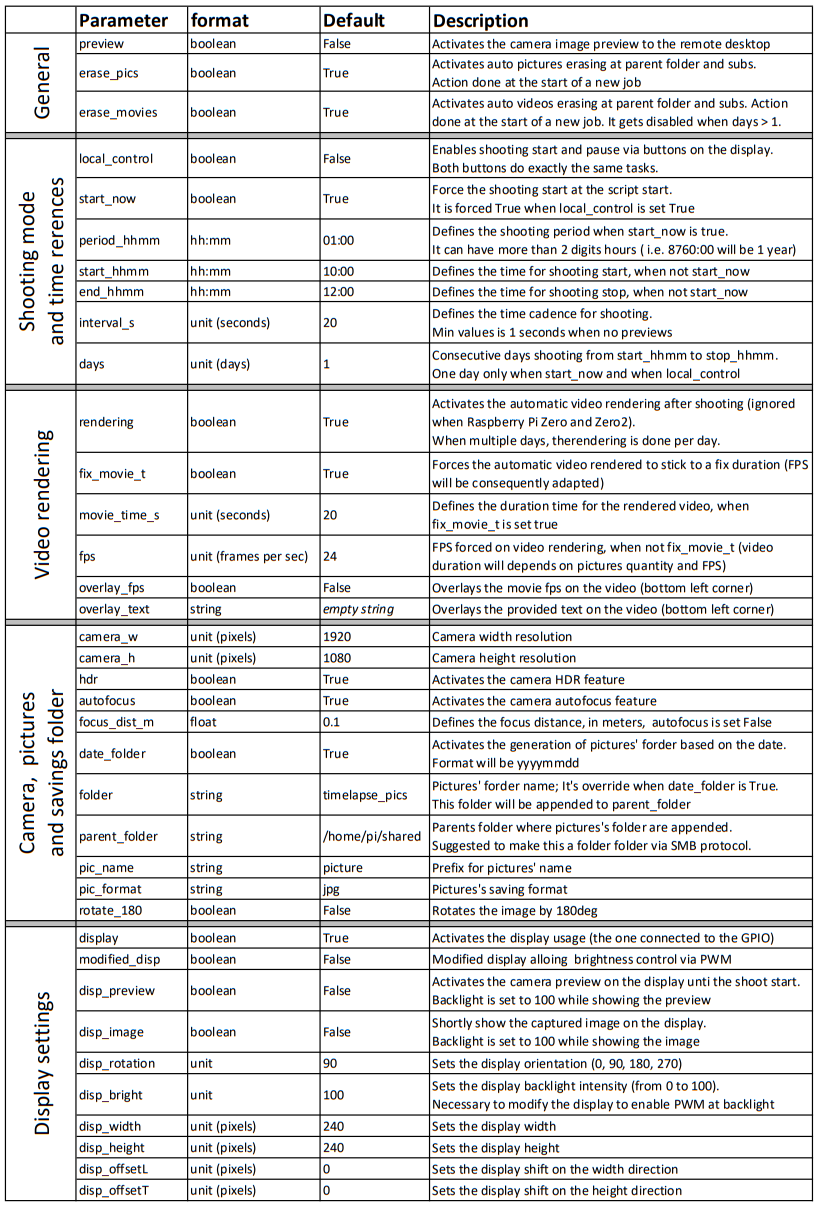
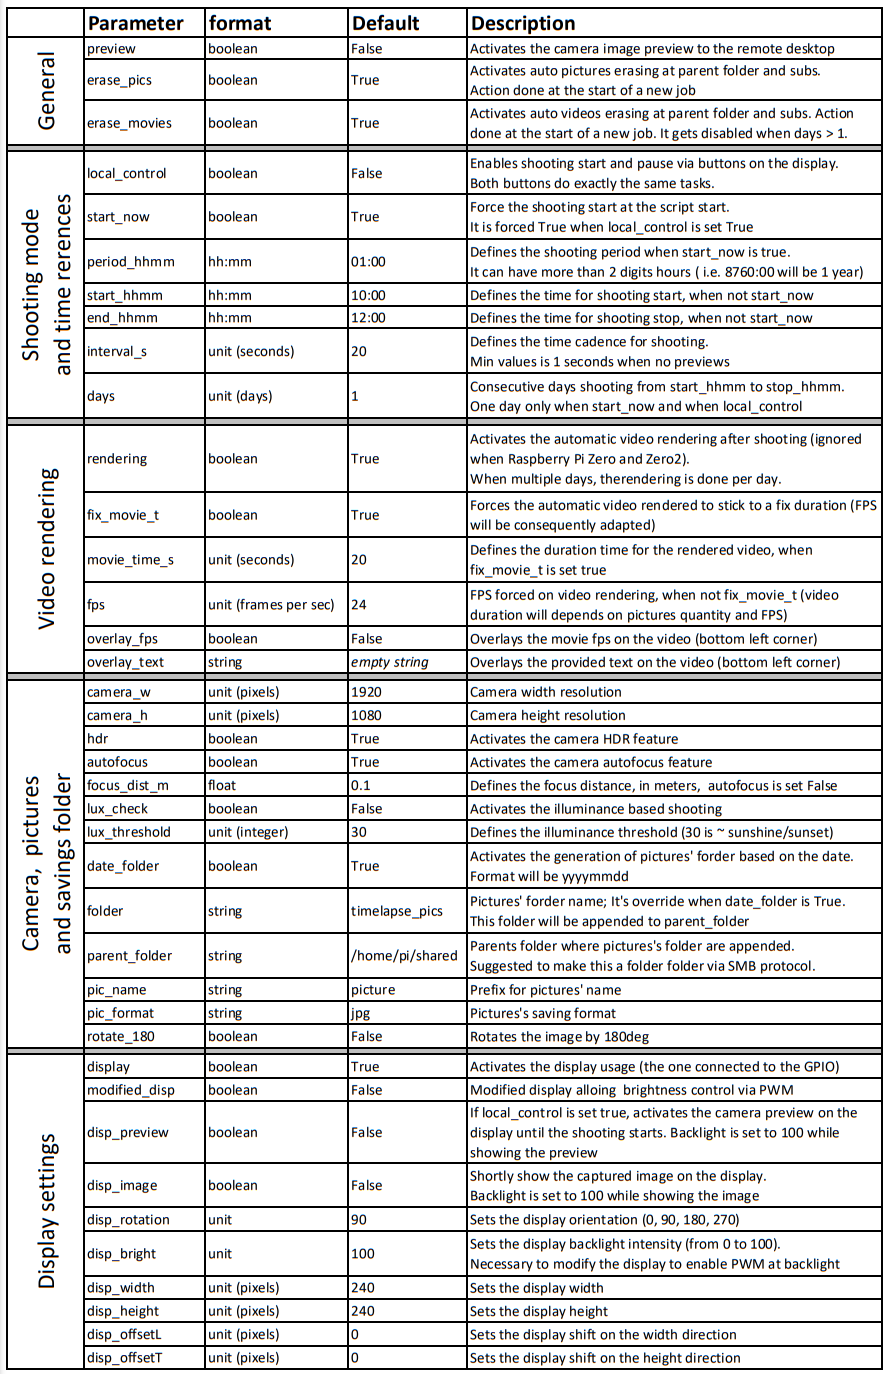
Rev 0.5 (recovery rom outage when start_now)
Extended the recovery from power outage function to when the start_now is set True.
The variables to condition the shooting to illuminance have been added to the settings.txt file.
Some minor inprovements

diff --git a/timelapse.py b/timelapse.py
@@ -3,19 +3,22 @@
 
 """
 #############################################################################################################
-#  Andrea Favero 11 August 2024,
+#  Andrea Favero 25 August 2024,
 #  Timelapse module, based on Raspberry Pi 4b and PiCamera V3 (wide)
 #
-#  Last version (addition): Recovery from power outage
+#  Last version (addition): Recovery from power outage and shooting when illuminance above threshold
 #  Recovery from power outage works when below parameters are set like:
 #        "date_folder" : "False" (it points to "folder")
 #        "erase_pics" : "False"  (latest picture suffix retrieved to prevent pictures being overwritten)
+#  Shooting when illuminance above threshold works when below parameters are set like:
+#        "lux_check" : "True"    (it enables lux estimation by the camera)
+#        "lux_threshold" : "30"  (sets the lux threshold, 30 is about the illuminance at sanset/sunshine)
 #############################################################################################################
 """
 
 
 # __version__ variable
-version = '0.4 (11 Aug 2024)'
+version = '0.5 (25 Aug 2024)'
 
 
 ################  setting argparser for parameter parsing  ######################################
@@ -83,6 +86,7 @@ import RPi.GPIO as GPIO
 
 
 
+
 def to_bool(value):
     """ Converts argument to boolean. Raises exception for invalid formats
         Possible True  values: 1, True, true, "1", "True", "yes", "y", "t"
@@ -134,7 +138,13 @@ def check_screen_presence():
             print('Display function is availbale')  # feedback is printed to the terminal
         return True                                   # function returns True, meaning there is a screen connected
     else:                                             # case the environment variable DISPLAY is set to 0 (there is NOT a display)
-        if debug:                                     # case debug variable is set True (on __main__ or via argument)
+#         try:
+#             os.environ['DISPLAY'] = ':0'
+#             print("Successfully set os.environ['DISPLAY'] = ':0'")
+#         except:
+#             print("Failed to set os.environ['DISPLAY'] = ':0'")
+            
+        if debug:                                 # case debug variable is set True (on __main__ or via argument)
             print('Display function is not availbale') # feedback is printed to the terminal
         return False                                  # function returns False, meaning there is NOT a screen connected
 
@@ -231,6 +241,17 @@ def setup():
                 instructions_info('parent_folder')    # instructions_info function is called
             else:                                     # case parent_folder is a key in settings.txt
                 parent_folder = str(settings['parent_folder'])  # parent_folder name to append folders
+            
+            if settings.get('lux_check') == None:     # case lux_check is not a key in settings.txt 
+                instructions_info('lux_check')        # instructions_info function is called
+            else:                                     # case parent_folder is a key in settings.txt
+                lux_check = to_bool(settings['lux_check'])  # flag to enable lux_check
+            
+            if settings.get('lux_threshold') == None: # case lux_threshold is not a key in settings.txt 
+                instructions_info('lux_threshold')    # instructions_info function is called
+            else:                                     # case parent_folder is a key in settings.txt
+                lux_threshold = int(settings['lux_threshold'])  # lux threshold to take or not a picture
+                
             # ############################################################################
 
             
@@ -307,6 +328,8 @@ def setup():
     variables['hdr'] = hdr
     variables['autofocus'] = autofocus
     variables['focus_dist_m'] = focus_dist_m
+    variables['lux_check'] = lux_check
+    variables['lux_threshold'] = lux_threshold
     variables['date_folder'] = date_folder
     variables['folder'] = folder
     variables['parent_folder'] = parent_folder
@@ -367,7 +390,7 @@ def set_camera(camera_w, camera_h, rotate_180, hdr, autofocus, focus_dist_m, pre
                                                           lores={"size": (640, 360)}) # camera settings
     
     picam2.configure(camera_conf)                     # applying settings to the camera
-
+    
     if v3_camera:                                     # case v3_camera is set True
         if hdr:                                       # case hdr is set True
             ret = os.system(f"v4l2-ctl --set-ctrl wide_dynamic_range=1 -d /dev/v4l-subdev0") # hdr on
@@ -379,13 +402,13 @@ def set_camera(camera_w, camera_h, rotate_180, hdr, autofocus, focus_dist_m, pre
             return error                              # error code is returned
         else:                                         # case setting the hdr returns zero
             sleep(0.5)                                # little sleep time    
-        
+
         if autofocus:                                 # case autofocus is set True
             picam2.set_controls({"AfMode": controls.AfModeEnum.Auto})  # Autofocus Auto requires a trigger to execute the focus
         else:                                         # case autofocus is set False
             focus_dist = 1/focus_dist_m if focus_dist_m > 0 else 10    #preventing zero division; 0.1 meter is the min focus dist (1/0.1=10)
             picam2.set_controls({"AfMode": controls.AfModeEnum.Manual, "LensPosition": focus_dist}) # manual focus; 0.0 is infinite (1/>>), 2 is 50cm (1/0.5)
-    
+        
     sleep(1)                                          # little sleep time
     camera_started = start_camera(picam2, preview)    # camera is started
     
@@ -937,10 +960,10 @@ def shoot(folder, fname, frame, pic_format, focus_ready, ref_time, display, disp
     while time() < ref_time:                          # while it isn't time to shoot yet
         sleep(0.05)                                   # short sleep
 
-    if lux_check:                                     # case lux_check is set True (variable set at __main__ )
+    if lux_check:                                     # case lux_check is set True (settings)
         metadata = picam2.capture_metadata()          # camera is inquired
         estimated_lux = metadata["Lux"]               # estimated lux from the camera is assigned
-        if estimated_lux < min_lux_threshold:         # case the estimated lux is smaller than the min_lux_threshold (set at __main__)
+        if estimated_lux < lux_threshold:             # case the estimated lux is smaller than the lux_threshold (settings)
             return False, time()                      # boolean (picture not taken), time reference of last (skipped) shoot is returned
     
     pic_name = '{}_{:05}.{}'.format(fname, frame, pic_format)  # file name construction for the picture
@@ -1240,8 +1263,8 @@ def wait_until_next_day(start_time_s, end_time_s, disp_preview, preview_pic, pre
                 
 #################    debugging way to prevent waiting for a real day change ########################
 #                 sleep(5)
-#                 start_time_s = now_s + 10             # debugging way to prevent a real day change
-#                 print("Debug: Fake next day (setting start_time_s = now_s + 10) for debug purpose\n")
+#                 start_time_s = now_s + 60             # debugging way to prevent a real day change
+#                 print("Debug: Fake next day (setting start_time_s = now_s + 60) for debug purpose\n")
 #                 break
 # ##################################################################################################
                 
@@ -1350,7 +1373,7 @@ def start_time_end_time(start_hhmm, end_hhmm, interval_s):
 
 
 
-def time_management(start_hhmm, end_hhmm, start_now, interval_s, power_outage):
+def time_management(start_hhmm, end_hhmm, start_now, interval_s, last_frame, power_outage):
     """Function managing some time related task, according to the settings and eventual power_outage."""
     
     start_time_s, end_time_s, shoot_time_s = start_time_end_time(start_hhmm, end_hhmm, interval_s)
@@ -1358,6 +1381,8 @@ def time_management(start_hhmm, end_hhmm, start_now, interval_s, power_outage):
     if start_now:                              # case start_now is set True
         hh, mm = period_hhmm.split(':')        # period_hhmm is split in string 'hh' and string 'mm'
         shoot_time_s = int(hh) * 3600 + int(mm) * 60 # shooting time in seconds is calculated
+        if power_outage:                       # case power_outage is set True
+            shoot_time_s -= interval_s * (last_frame + 1) # shoot_time_s is reduced considering pictures already taken
                                    
     elif not start_now:                        # case start_now is set False
         if end_time_s < start_time_s:          # case end_time_s is smaller (advance) than start_time_s, the end_time_s in on the next day
@@ -1366,7 +1391,7 @@ def time_management(start_hhmm, end_hhmm, start_now, interval_s, power_outage):
             shoot_time_s = end_time_s - start_time_s  # shooting time is calculated
             
             now_s, _ = time_update(start_time_s)  # current time from midnight is retrieved
-            if power_outage:                   # case power_outage is set True	
+            if power_outage:                   # case power_outage is set True
                 if  start_time_s < now_s < end_time_s - 1.5 * interval_s:  # case within shooting time
                     
                     if debug:                  # case debug is set True
@@ -1489,8 +1514,7 @@ if __name__ == "__main__":
     # 40            Fully overcast, sunset/sunrise
     # <1            Extreme of thickest storm clouds, sunset/rise
     
-    lux_check = False                          # flag to suject the shooting to a min Lux value
-    min_lux_threshold = 30                     # minimum Lux threshold, when lux_check is set True
+    # I did some tests with lux_threshold = 30, to capsure sunsets, and it works fairly well
     # ##############################################################################################
     
     
@@ -1526,6 +1550,8 @@ if __name__ == "__main__":
     end_hhmm = variables['end_hhmm']
     interval_s = variables['interval_s']
     days = variables['days']
+    lux_check = variables['lux_check']
+    lux_threshold = variables['lux_threshold']
     
     rendering = variables['rendering']
     fix_movie_t = variables['fix_movie_t']
@@ -1688,7 +1714,8 @@ if __name__ == "__main__":
     last_frame = 0                             # last frame is the last saved picture suffix if power outage
     past_days = 0                              # days already shootted, used if power outage
     power_outage = False                       # power_outage flag is initially set False
-    if not date_folder and not start_now:      # case date_folder and start_now are set False (at settings)
+    print_once = True                          # variables to enable/disable a single print
+    if not date_folder:                        # case date_folder is set False (at settings)
         last_frame, past_days, power_outage = power_outage_check(parent_folder, folder, pic_format, start_hhmm, end_hhmm, interval_s)
         if last_frame != 0:                    # case last_frame does not equal to zero
             frame = last_frame + 1             # last_frame (plus one) is assigned to frame
@@ -1702,6 +1729,7 @@ if __name__ == "__main__":
                                                              end_hhmm,
                                                              start_now,
                                                              interval_s,
+                                                             last_frame,
                                                              power_outage)
     # ###############################################################################################
     
@@ -1743,13 +1771,17 @@ if __name__ == "__main__":
     
     day = 0                                    # zero is assigned to variable day (first day)
     while day < days:                          # iteration over the days (settings)
-    
-        if past_days > 0:                      # case there are shootted days (recovery from power outage)
-            day += past_days                   # days variable is decremented by past_days
-            past_days = 0                      # zero is assigned to past_days
         
-        frame_d = 0                            # frame_d (frame of the day) is set to zero
+        # adjusting some variables in case power_outage happened
+        if start_now:                          # case start_now is set True
+            frame_d = last_frame + 1           # frame_d (frame of the day) is set to last frame
+        else:                                  # case start_now is set False
+            if past_days > 0:                  # case there are shootted days (recovery from power outage)
+                day += past_days               # days variable is decremented by past_days
+                past_days = 0                  # zero is assigned to past_days
+                frame_d = 0                    # frame_d (frame of the day) is set to zero
         
+        # erasing pictures daily
         if rendering and make_space:           # if rendering and makes space are set True
             error = make_space(parent_folder)  # emptying the folder from old pictures
         
@@ -1783,7 +1815,8 @@ if __name__ == "__main__":
         
         
         #############################################################################################
-        #############################   shooting loop within a day  #################################
+        #############################   shooting loop within a day    ###############################
+        # when start_now days is foced to zero and shooting stops by changing day
         ############################################################################################# 
 
         # loop ends when frames quantity is reached, or stop request (buttons, Ctrl+C, etc)
@@ -1817,13 +1850,18 @@ if __name__ == "__main__":
                     # calls the shooting function
                     ret, last_shoot_time = shoot(folder, pic_name, frame, pic_format, focus_ready, ref_time, display, disp_image, time_for_focus)
                     
-                    if ret:                        # reference time for the next shoot is assigned
-                        if frame_d % 50 == 0:      # case the frame is mutiple of 50
+                    if not ret:                    # case a picture has not been taken
+                        if power_outage and lux_check and print_once:    # case there was power outage and lux_check is set True
+                            print(" Probably the Lux level is currently below the lux_threshold ")  # feedback is printed to the terminal
+                            print_once = False     # print_once is set False to prevent further prints
+                    
+                    elif ret:                      # case a picture has been taken
+                        if frame_d % 50 == 0 or frame_d == last_frame + 1:   # case the frame is mutiple of 50 or 1st shoot after power_outage and strat_now
                             t_ref = strftime("%d %b %Y %H:%M:%S", localtime())  # current local time passed as string
                             print('\n' + t_ref, '\t', "frame:", '{:05d}'.format(frame_d), end = ' ', flush=True) # current time and frame feedback to terminal
                         else:                      # case the frame is not mutiple of 100
                             print('*',end ='', flush=True) # a dot character is added to the terminal to show progress
-
+                            
                         frame+=1                   # frame variable (used for picture name) is incremented by one each shoot
                         frame_d+=1                 # frame_d variable (used for shooting timing) is incremented by one each day
                     
@@ -1847,7 +1885,10 @@ if __name__ == "__main__":
             
             if not local_control:                  # case local_control is set False
                 now_s, time_left_s = time_update(start_time_s)  # current time, and time left to shooting start, is retrieved
-                if frame_d >= frames or now_s > end_time_s:  # case current frame_d equals the daily set frames or current seconds of the day > end_time_s
+                
+                # conditions to stop shooting (of the day when multiday, of final stop when start_now)
+                # case current frame_d equals the daily set frames or (current seconds of the day > end_time_s and not start_now)
+                if frame_d >= frames or (now_s > end_time_s and not start_now):        
                     print()                        # print empty line
                     if frame_d > 0 and frame_d >= frames:  # case frame_d bigger than zero and all pictures of the day taken
                         # last frame gets its own print to terminal, to make visible the frames quantity
@@ -1910,9 +1951,11 @@ if __name__ == "__main__":
         
         # call to time_management function to get rid of eventual time adjustments caused by recovery from power outage
         start_time_s, end_time_s, shoot_time_s = time_management(start_hhmm, end_hhmm, start_now,
-                                                                 interval_s, power_outage = False)
+                                                                 interval_s, last_frame, power_outage = False)
         
+        # Note: when start_now is set True and day > 0 the iteration over days is concluded
         day += 1                                   # iterator day is incremented (end of the while loop)
+         
 
     #################################################################################################
     ####################################   Loop end over days  ######################################
@@ -1927,6 +1970,4 @@ if __name__ == "__main__":
     if not quitting:                               # case quitting is set False (quitting not already called)
         exit_func(error)                           # exit function is called  
     # ###############################################################################################
-
-
 

diff --git a/README.md b/README.md
@@ -136,11 +136,23 @@ This is especially relevant when the system is used for long periods, and power 
 1. Set the automatic scrip to start at Boot. <br />
 2. Set "date_folder" : "False" <br />
 3. Set "erase_pics" : "False" <br />
-4. Set "start_now" : "False" (use start start_hhmm and stop_hhmm to define the shooting period. Note that start_hhmm could be set to an earlier time than when you're going to start the system).<br />
 
 After the power outage, Raspberry Pi boots and the code checks for the latest picture suffix as reference for the next new picture.<br />
 In case of multiple days shooting, the days already covered by shooting (partially or fully) are counted (full days without power are also counted). Counted days are detracted from the total days set in settings, to complete the shooting as per schedule.
 <br /><br /><br /><br />
+
+
+## Shooting when enough illuminance
+The illuminance estimation by the camera can be used to avoid shooting if illuminance is below a threshold. <br />
+1. Set "lux_check" : "True"   (Default is False). <br />
+2. Set "lux_threshold" : "30" (30 is about the illuminance at sunset/sunshine. Check [Wikipdia](https://en.wikipedia.org/wiki/Illuminance) for values reference. <br />
+
+When "lux_check" is set False the code doesn't check the illuminance estimation by the camera. <br />
+When "lux_check" is set True, and illuminance drops below "lux_threshold", the pictures aren't taken. In this case less pictures are saved while the shooting schedule is safeguarded. <br />
+As example of "lux_threshold": "30":<br />
+![title image](/pictures/lux30.jpg)  <br />
+Make your own check on which threshold fits your setup.
+ <br /><br /><br /><br />
 
 
 ## Parts
